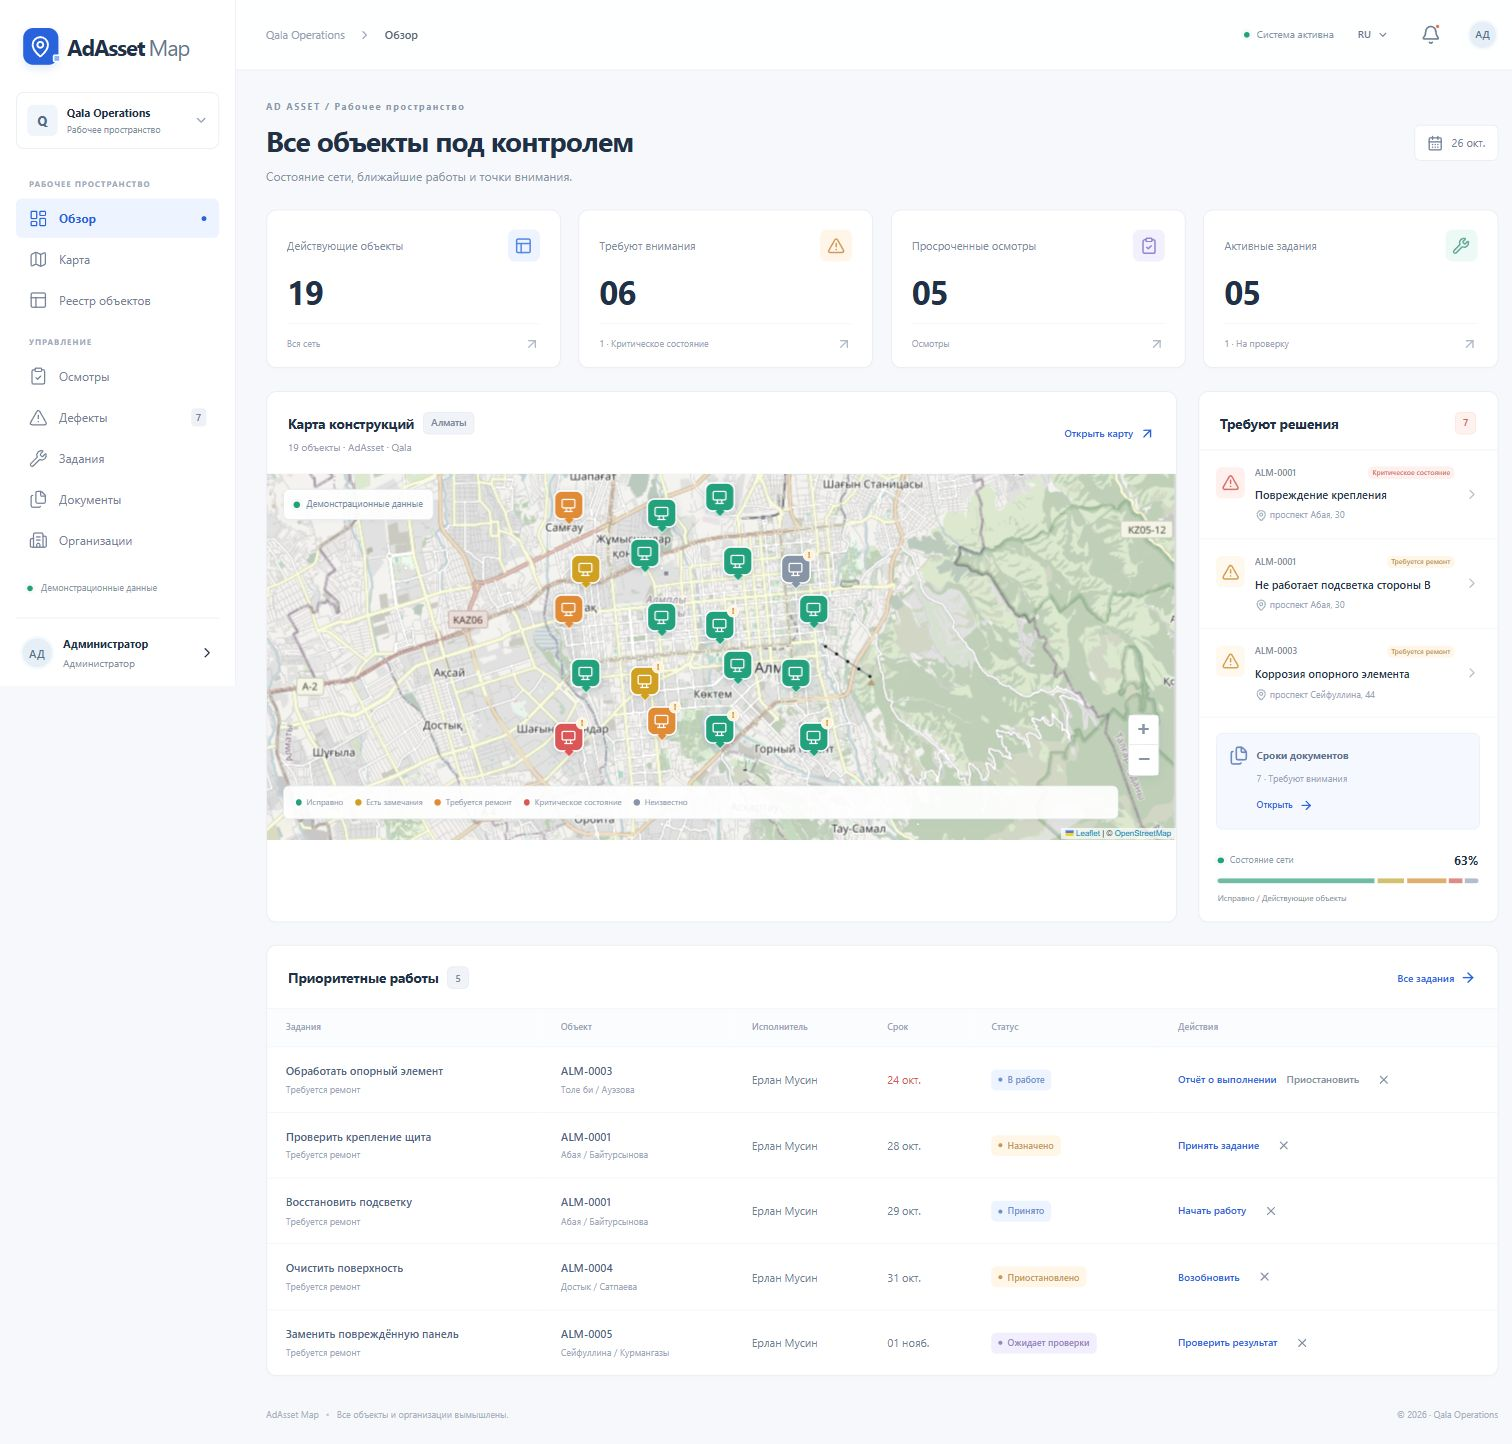
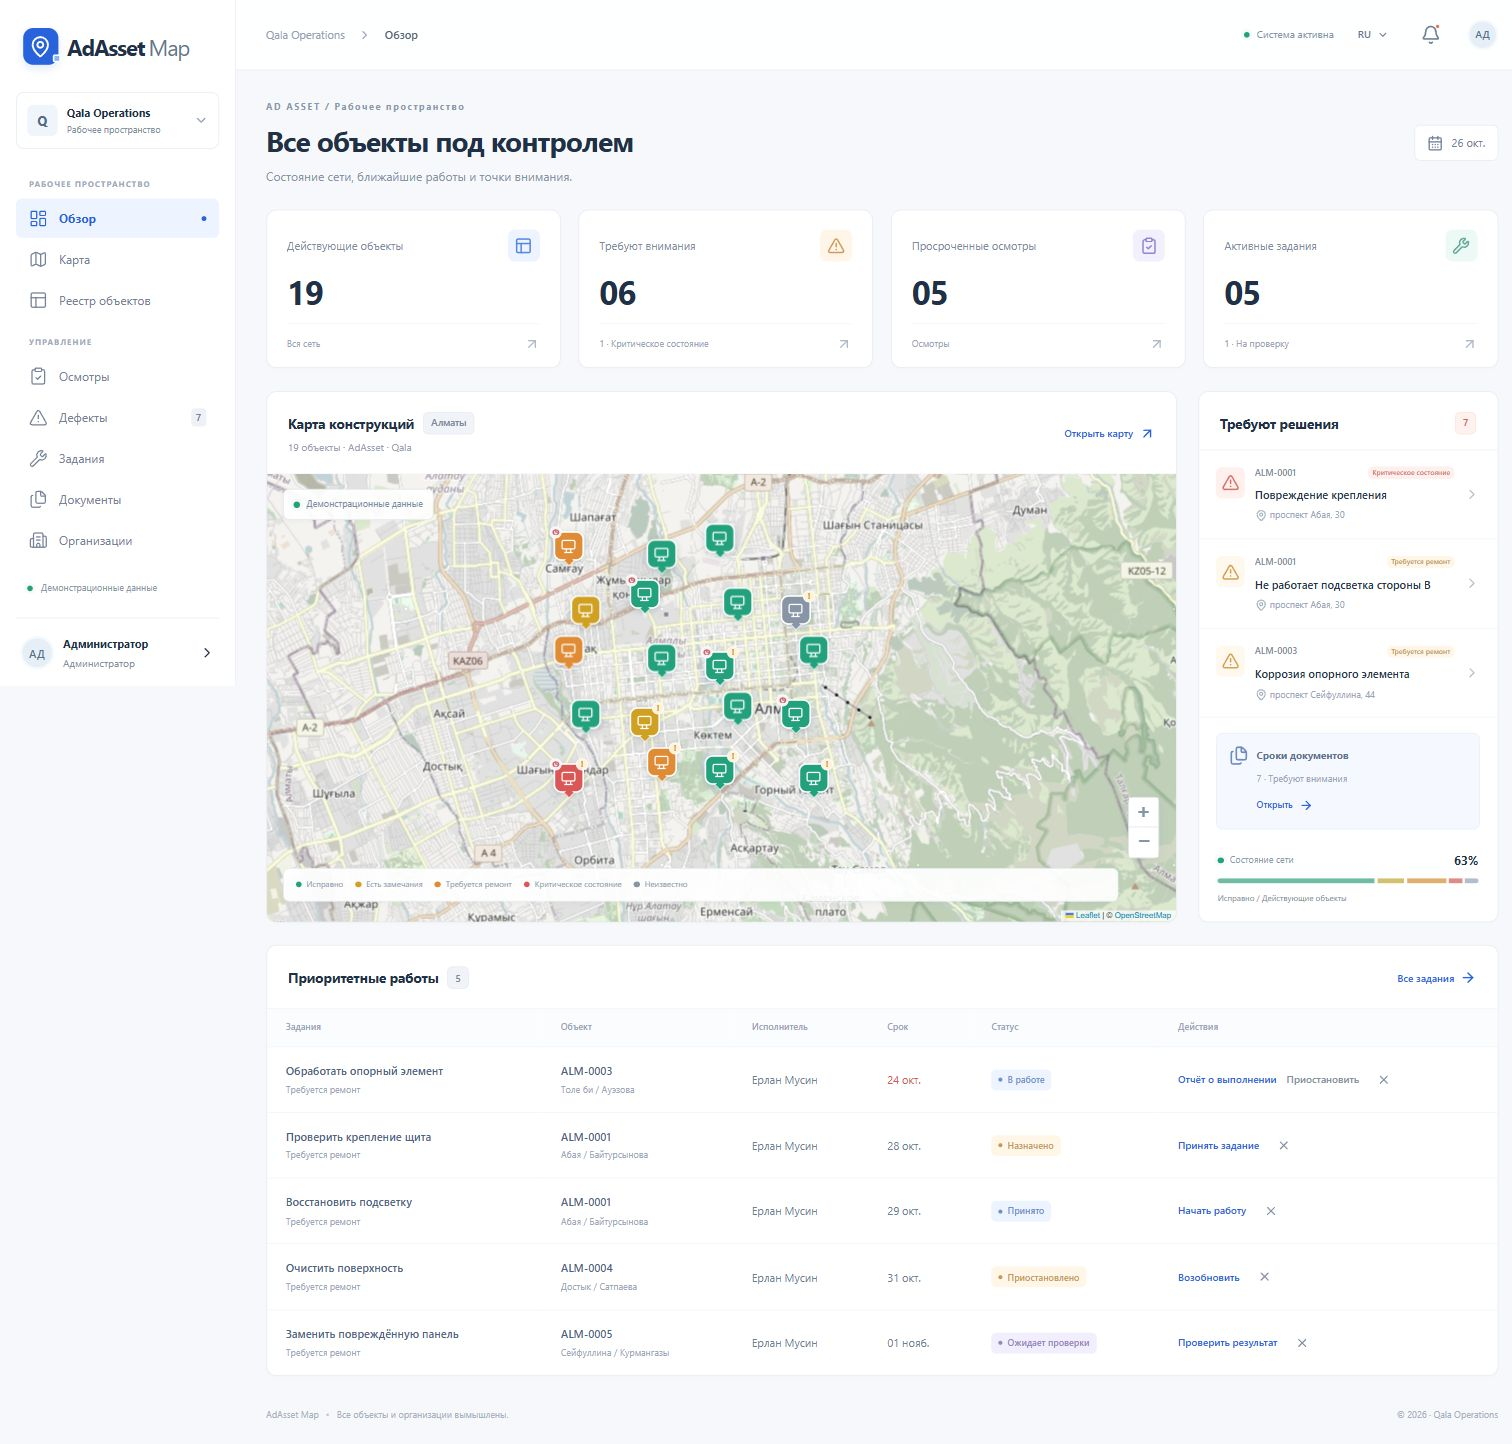
Polish map indicators and reliable local startup

Changed region(s): [[0.1554, 0.3116, 0.7771, 0.6544], [0.1865, 0.3116, 0.2176, 0.3428]]

diff --git a/src/components/map.tsx b/src/components/map.tsx
@@ -2,6 +2,7 @@
 import { useEffect, useRef, useState } from 'react';
 import type { Map as LMap } from 'leaflet';
 import type { Row } from '@/lib/domain';
+import { labels } from '@/lib/i18n';
 const colors: Record<string, string> = {
   healthy: '#23a17c',
   remarks: '#d0a023',
@@ -110,19 +111,22 @@ export default function MapView({
       const L = module.default || module;
       layer.current.clearLayers();
       for (const a of assets) {
-        const color = colors[a.technical_state] || colors.unknown;
+        const color = ['suspended', 'dismantled'].includes(a.lifecycle)
+          ? colors.unknown : colors[a.technical_state] || colors.unknown;
+        const title = `${a.number} · ${a.name} · ${t(labels[a.technical_state] || 'Неизвестно')}${a.inspection_state === 'overdue' ? ' · '+t('Просроченные осмотры') : ''}`;
         const icon = L.divIcon({
           className: 'asset-marker-wrap',
-          html: `<div class="asset-marker ${selected === a.id ? 'selected' : ''}" style="--marker:${color}"><svg viewBox="0 0 24 24" width="17" height="17" fill="none" stroke="currentColor" stroke-width="1.8"><rect x="3" y="4" width="18" height="12" rx="2"/><path d="M9 16v5m6-5v5M6 21h12"/></svg>${a.document_state !== 'valid' ? '<b>!</b>' : ''}</div>`,
+          html: `<div class="asset-marker ${selected === a.id ? 'selected' : ''}" style="--marker:${color}"><svg viewBox="0 0 24 24" width="17" height="17" fill="none" stroke="currentColor" stroke-width="1.8"><rect x="3" y="4" width="18" height="12" rx="2"/><path d="M9 16v5m6-5v5M6 21h12"/></svg>${a.document_state !== 'valid' ? '<b>!</b>' : ''}${a.inspection_state === 'overdue' ? '<b class="inspection-alert">◷</b>' : ''}</div>`,
           iconSize: [34, 39],
           iconAnchor: [17, 39],
         });
         const marker = L.marker([a.latitude, a.longitude], {
           icon,
-          title: `${a.number} · ${a.name}`,
+          title,
+          alt: title,
         });
         const tip = document.createElement('span');
-        tip.textContent = `${a.number} · ${a.name}`;
+        tip.textContent = title;
         marker.bindTooltip(tip).on('click', () => callback.current?.(a));
         layer.current.addLayer(marker);
       }

diff --git a/src/components/workspace.tsx b/src/components/workspace.tsx
@@ -145,7 +145,10 @@ export default function Workspace() {
     return () => clearInterval(timer);
   }, [!!state, load]);
   const run: Run = async (action, payload) => {
-    const fingerprint = JSON.stringify({ action, payload });
+    const digest = await crypto.subtle.digest(
+      'SHA-256', new TextEncoder().encode(JSON.stringify({ action, payload })),
+    );
+    const fingerprint = Array.from(new Uint8Array(digest), b => b.toString(16).padStart(2, '0')).join('');
     const pendingKey = `adasset:pending:${state?.user.id}:${fingerprint}`;
     let key = localStorage.getItem(pendingKey);
     if (!key) {

diff --git a/src/app/globals.css b/src/app/globals.css
@@ -1231,6 +1231,7 @@ tbody tr:hover {
 .asset-marker.selected {
   outline: 4px solid #4786ea50;
 }
+.asset-marker b.inspection-alert { left: -6px; right: auto; color: #b85d68; background: #ffeff1; }
 .asset-cluster {
   border: 4px solid #ffffffb3;
   border-radius: 50%;

diff --git a/docs/ACCEPTANCE.md b/docs/ACCEPTANCE.md
@@ -29,6 +29,7 @@
 - `node scripts/http-smoke.mjs`: отклонение поддельной подписи файла, чужого origin, поддельного PNG, запрещённой операции техника и выгрузки техника; отзыв сессии после выхода. Проверено на работающем локальном API.
 - Демодокументы/иллюстрации хранятся приватно и доступны через подписанные ссылки.
 - Производственный сервер перезапущен: все 20 объектов, файлы и подтверждение ALM-0019 сохранились. Создана локальная резервная копия; команда миграции повторно выполнена без дублирования данных.
+- Резервная копия открыта в отдельной временной базе: подтверждены 20 объектов, сохранённое состояние ALM-0019 и читаемое приватное вложение. Рабочая база при проверке восстановления не изменялась.
 
 ## Сценарий ручной приёмки
 
